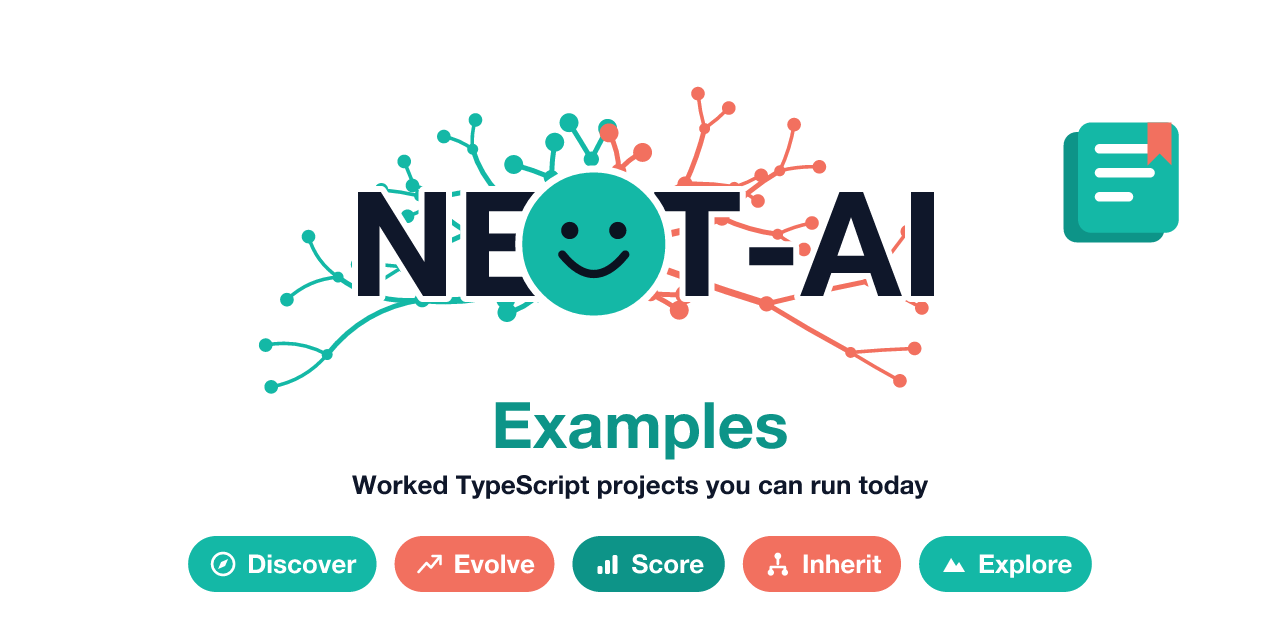
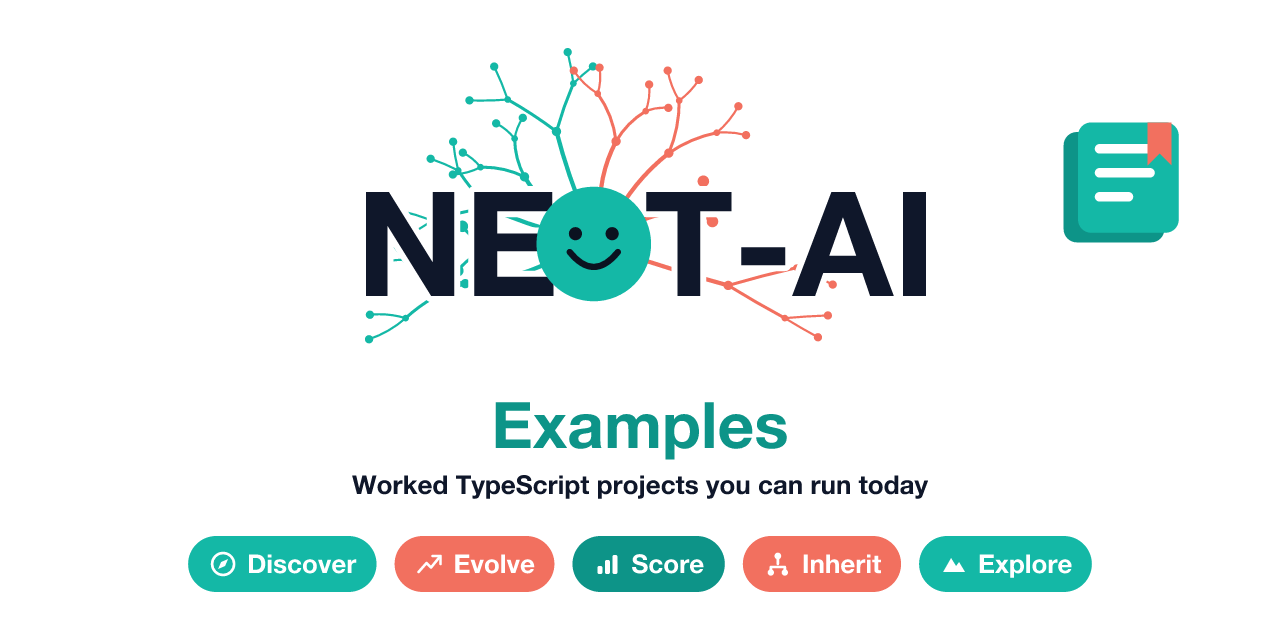
fix: restore the organic neuron A in social previews (Issue #3781) (#3788)
* fix: restore the organic neuron A in family social previews.

Closes #3781 — redraw the soma as an irregular cell body with dendrite
trunks in the SVG generator, keeping transparent backgrounds.

* fix: keep a round smiley soma; neuron look is the dendrites.

The lumpy cell body read as a mutant, not a neuron. Restore the friendly
round face and grow dendrite trunks out of it.

* fix: match the original neuron A, keep the transparent canvas.

Round smiley soma with apical dendrites like the v6.6.3 GitHub card,
without the solid background that prompted the #3764 regeneration.

---------

Changed region(s): [[0.1875, 0.0938, 0.75, 0.625], [0.2188, 0.3438, 0.25, 0.4062], [0.1875, 0.5938, 0.2188, 0.625]]

diff --git a/scripts/brand/preview_art.ts b/scripts/brand/preview_art.ts
@@ -1,11 +1,12 @@
 /**
- * Issue #3764 — the NEAT-AI family social previews, drawn as SVG.
+ * Issue #3764 / #3781 — the NEAT-AI family social previews, drawn as SVG.
  *
- * The family look lives here once: the smiley-neuron soma standing in for the
- * "A" of NEAT-AI, the teal/coral dendrite tree behind it, the sub-project
- * subtitle, and the shared capability pills. Every sibling preview is the same
- * lockup with its own subtitle, descriptor, and motif, so the ten images stay
- * recognisably one family instead of ten hand-tweaked drawings.
+ * The family look lives here once: a friendly round smiley-neuron standing in
+ * for the "A" of NEAT-AI, dendrite trunks growing out of that cell body, the
+ * teal/coral dendrite tree, the sub-project subtitle, and the shared capability
+ * pills. Every sibling preview is the same lockup with its own subtitle,
+ * descriptor, and motif, so the ten images stay recognisably one family instead
+ * of ten hand-tweaked drawings.
  *
  * Two palettes render the same artwork:
  *
@@ -184,17 +185,17 @@ interface Primary {
  * the original organic hero does.
  */
 const PRIMARIES: Primary[] = [
-  { angle: -172, length: 190, depth: 2, coral: false },
-  { angle: -148, length: 160, depth: 2, coral: false },
-  { angle: -119, length: 95, depth: 1, coral: false },
-  { angle: -95, length: 100, depth: 1, coral: false },
-  { angle: -71, length: 95, depth: 1, coral: true },
-  { angle: -36, length: 160, depth: 2, coral: true },
-  { angle: -8, length: 190, depth: 2, coral: true },
-  { angle: 166, length: 250, depth: 2, coral: false },
-  { angle: 140, length: 100, depth: 1, coral: false },
-  { angle: 14, length: 250, depth: 2, coral: true },
-  { angle: 40, length: 100, depth: 1, coral: true },
+  // Apical fan — the neuron look of the original A (Issue #3781).
+  { angle: -158, length: 175, depth: 2, coral: false },
+  { angle: -132, length: 145, depth: 2, coral: false },
+  { angle: -105, length: 165, depth: 2, coral: false },
+  { angle: -78, length: 145, depth: 2, coral: true },
+  { angle: -48, length: 175, depth: 2, coral: true },
+  { angle: -22, length: 125, depth: 1, coral: true },
+  { angle: -178, length: 125, depth: 1, coral: false },
+  // Lateral wraps behind the letters, not downward "legs".
+  { angle: 168, length: 200, depth: 2, coral: false },
+  { angle: 12, length: 200, depth: 2, coral: true },
 ];
 
 /**
@@ -328,12 +329,15 @@ function dendrites(
   for (const primary of PRIMARIES) {
     const angle = primary.angle + (random() - 0.5) * 12;
     const radians = (angle * Math.PI) / 180;
+    // Issue #3781: leave the round soma at the rim so trunks read as dendrites
+    // growing out of the cell (the original neuron A), not a tree behind it.
+    const startR = radius * 0.92;
     grow(
-      cx + Math.cos(radians) * radius * 0.35,
-      cy + Math.sin(radians) * radius * 0.35,
+      cx + Math.cos(radians) * startR,
+      cy + Math.sin(radians) * startR,
       angle,
       primary.length * (0.9 + random() * 0.2),
-      11,
+      8,
       primary.depth,
       (random() - 0.5) * 0.5,
       primary.coral ? palette.coral : palette.teal,
@@ -353,14 +357,14 @@ function dendrites(
   const halo = segments
     .map((s) =>
       `<path d="${s.d}" stroke="${palette.halo}" stroke-width="${
-        n(s.width + 7)
+        n(s.width + 4)
       }" fill="none" stroke-linecap="round"/>`
     )
     .join("") +
     dots
       .map((d) =>
         `<circle cx="${n(d.x)}" cy="${n(d.y)}" r="${
-          n(d.r + 3.5)
+          n(d.r + 2)
         }" fill="${palette.halo}"/>`
       )
       .join("");
@@ -381,13 +385,18 @@ function dendrites(
   return `<g ${fit}><g>${halo}</g><g>${art}</g></g>`;
 }
 
-/** The smiley soma that stands in for the "A" of NEAT-AI. */
+/**
+ * The smiley soma that stands in for the "A" of NEAT-AI (Issue #3781).
+ *
+ * Round and friendly — the original neuron look is this disc plus dendrites
+ * growing out of the top, not a white-ringed sticker or a lumpy silhouette.
+ * Teal already reads on light and dark pages, so the soma has no halo stroke.
+ */
 function soma(cx: number, cy: number, r: number, palette: Palette): string {
   const eyeR = r * 0.115;
   const eyeY = cy - r * 0.18;
   return [
-    `<circle cx="${n(cx)}" cy="${n(cy)}" r="${n(r)}" fill="${palette.teal}" `,
-    `stroke="${palette.halo}" stroke-width="7"/>`,
+    `<circle cx="${n(cx)}" cy="${n(cy)}" r="${n(r)}" fill="${palette.teal}"/>`,
     `<circle cx="${n(cx - r * 0.32)}" cy="${n(eyeY)}" r="${
       n(eyeR)
     }" fill="${SOMA_DETAIL}"/>`,
@@ -501,8 +510,8 @@ export function buildPreviewSvg(
   const left = measure("NE", WORDMARK_SIZE, WORDMARK_WEIGHT);
   const right = measure("T-AI", WORDMARK_SIZE, WORDMARK_WEIGHT);
   const capHeight = left.height;
-  const somaRadius = capHeight * 0.72;
-  const overlap = somaRadius * 0.22;
+  const somaRadius = capHeight * 0.55;
+  const overlap = somaRadius * 0.12;
   const lockupWidth = left.width + right.width + somaRadius * 2 - overlap * 2;
   const startX = (PREVIEW_WIDTH - lockupWidth) / 2;
   const somaX = startX + left.width + somaRadius - overlap;

diff --git a/test/docs/BrandPreviewSvg.ts b/test/docs/BrandPreviewSvg.ts
@@ -69,6 +69,24 @@ Deno.test("each preview carries its own subtitle and descriptor", () => {
   }
 });
 
+Deno.test("the soma is a friendly round neuron with a smiley face", () => {
+  const svg = buildPreviewSvg(HUB, paletteFor("transparent"), stubMeasure);
+  const teal = paletteFor("transparent").teal;
+  assert(
+    new RegExp(`<circle cx="[^"]+" cy="[^"]+" r="[^"]+" fill="${teal}"/>`).test(
+      svg,
+    ),
+    "Issue #3781: the A is a round teal soma without a sticker-like halo ring",
+  );
+  // Smiley face: two filled eyes plus a stroke smile.
+  assert(
+    [...svg.matchAll(/fill="#0B1220"/g)].length >= 2,
+    "Issue #3781: soma must keep the smiley-face eyes",
+  );
+  assertStringIncludes(svg, `stroke="#0B1220"`);
+  assertStringIncludes(svg, '<path d="M');
+});
+
 Deno.test("the same spec renders identically every time", () => {
   const first = buildPreviewSvg(HUB, paletteFor("transparent"), stubMeasure);
   const second = buildPreviewSvg(HUB, paletteFor("transparent"), stubMeasure);
